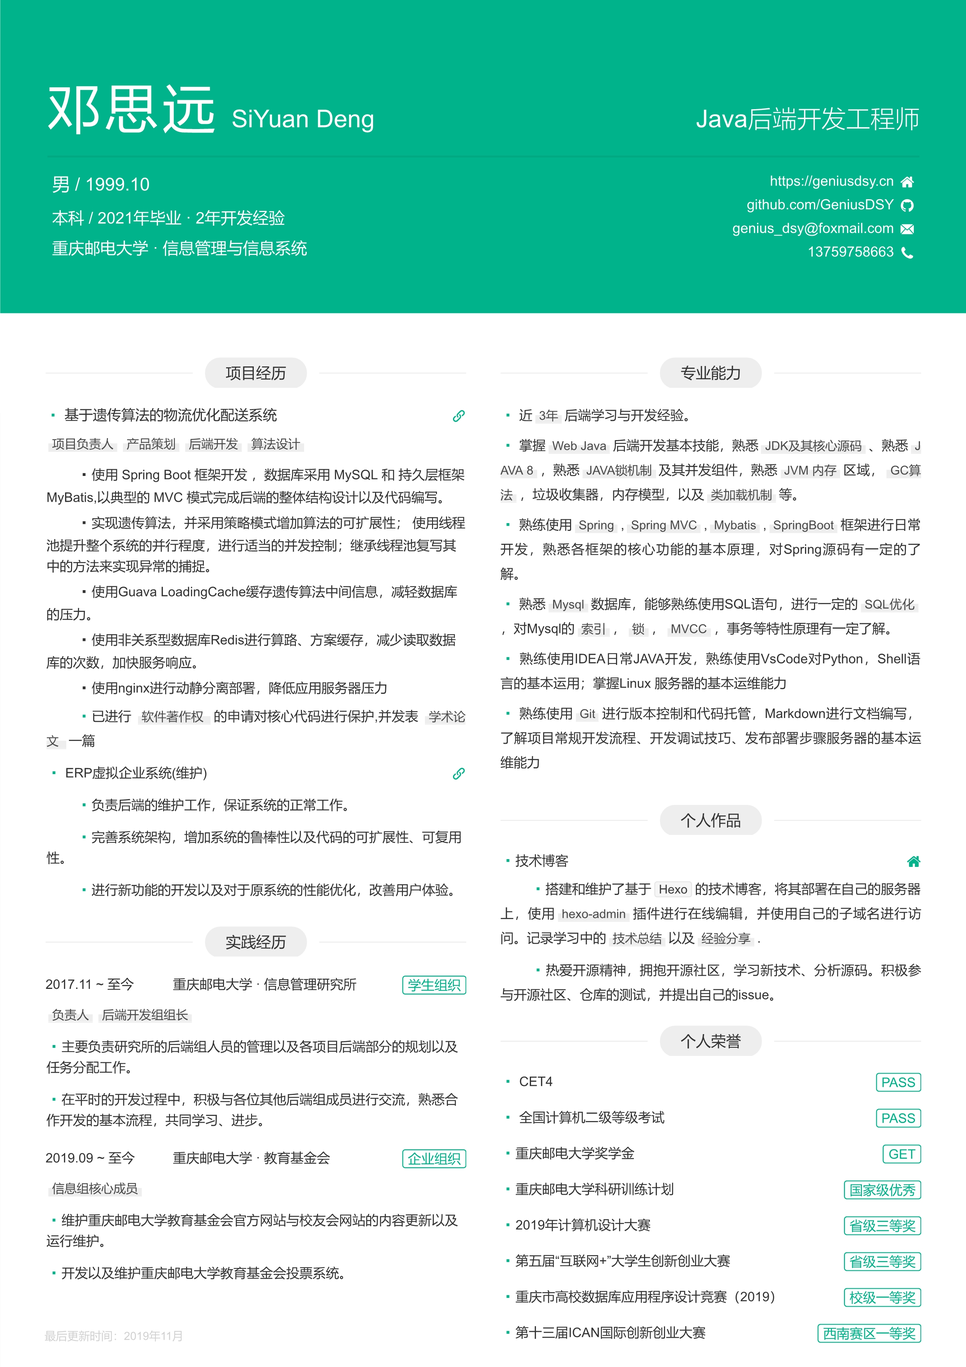
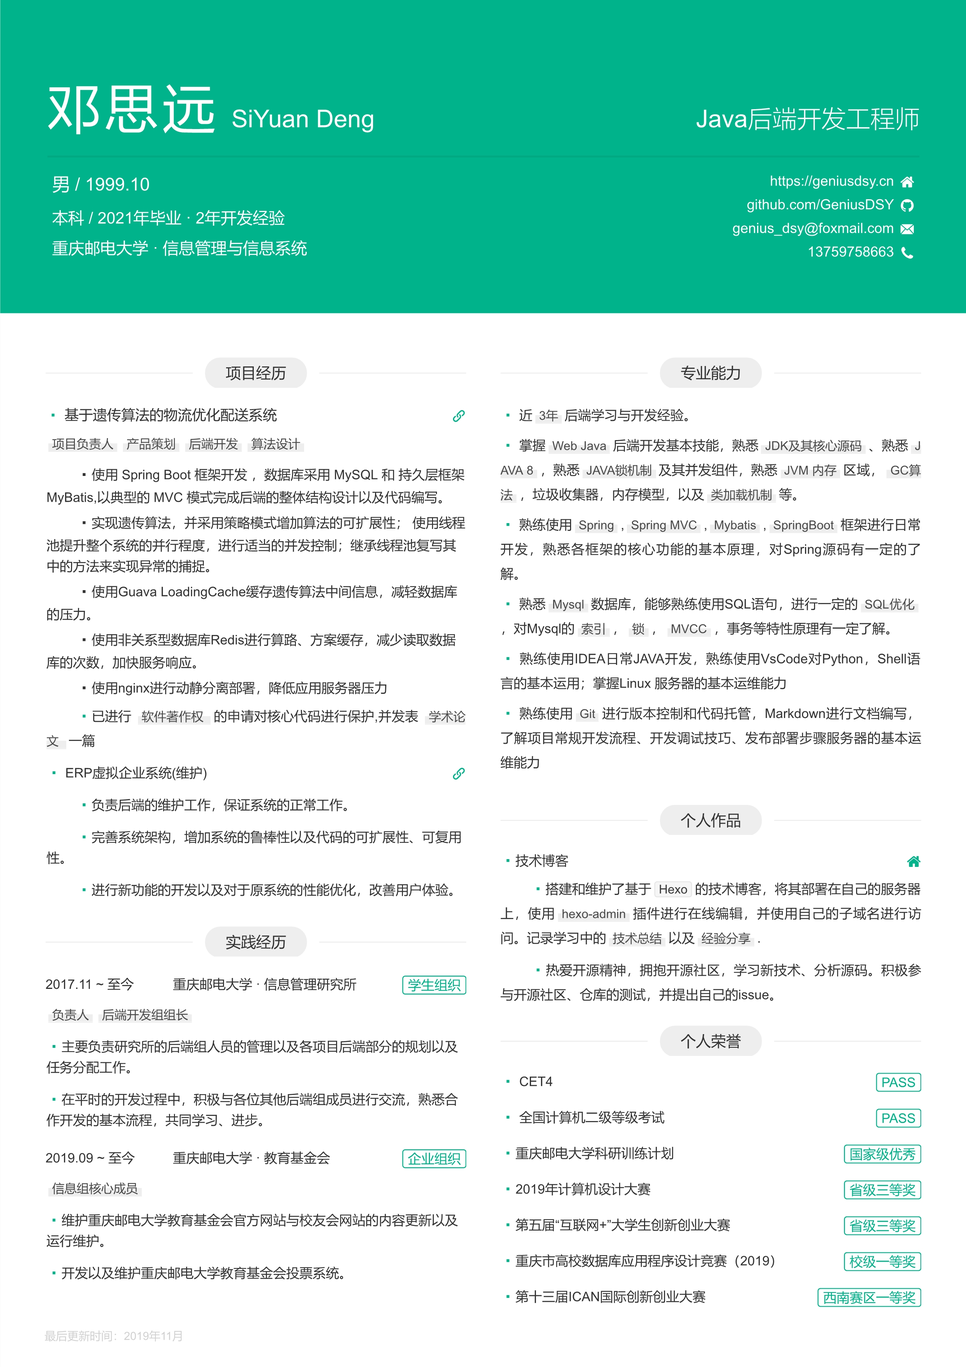
:lipstick: chore:更新页面布局

Changed region(s): [[0.5282, 0.8392, 0.7458, 0.9946], [0.839, 0.9324, 0.9633, 0.9946], [0.8701, 0.8392, 0.9633, 0.9013]]

diff --git a/index.html b/index.html
@@ -1,5 +1,5 @@
-<!DOCTYPE html><html><head><meta charset="utf-8"><meta http-equiv="X-UA-Compatible" content="IE=edge,chrome=1"><meta name="viewport" content="width=device-width,initial-scale=1"><title>简历 | 邓思远 - SiYuan Deng</title><script type="text/javascript" src="static/app.js?a1e1f0"></script></head><body><!--[if IE]><p class="kill-ie">微软都放弃了IE，为啥你却还不放弃？</p><![endif]--><p class="last-modified">最后更新时间：2019年11月</p><div class="content"><header class="content-hd"><section class="title"><div class="name"><h1>邓思远<small>SiYuan Deng</small></h1></div><div class="job"><h2>Java后端开发工程师<small></small></h2></div></section><section class="info"><h2>男 / 1999.10</h2><h3>本科 / 2021年毕业 · 2年开发经验</h3><h3>重庆邮电大学 · 信息管理与信息系统</h3></section><section class="contact"><ul><li><a href="https://geniusdsy.cn" target="_blank"><span class="contact-link">https://geniusdsy.cn</span><i class="iconfont icon-homepage"></i></a></li><li><a href="https://github.com/GeniusDSY" target="_blank"><span class="contact-link">github.com/GeniusDSY</span><i class="iconfont icon-github"></i></a></li><li><a href="mailto:genius_dsy@foxmail.com" target="_blank"><span class="contact-link">genius_dsy@foxmail.com</span><i class="iconfont icon-email"></i></a></li><li><a href="tel:13759758663" target="_blank"><span class="contact-link">13759758663</span><i class="iconfont icon-phone"></i></a></li></ul></section></header><div class="content-bd"><div class="content-left"><section id="experience"><header class="section-hd"><span class="section-title-l"></span><h2 class="section-title">项目经历</h2><span class="section-title-r"></span></header><div class="section-bd"><div class="item item-main"><!-- <header class="item-hd">
+<!DOCTYPE html><html><head><meta charset="utf-8"><meta http-equiv="X-UA-Compatible" content="IE=edge,chrome=1"><meta name="viewport" content="width=device-width,initial-scale=1"><title>简历 | 邓思远 - SiYuan Deng</title><script type="text/javascript" src="static/app.js?9066c5"></script></head><body><!--[if IE]><p class="kill-ie">微软都放弃了IE，为啥你却还不放弃？</p><![endif]--><p class="last-modified">最后更新时间：2019年11月</p><div class="content"><header class="content-hd"><section class="title"><div class="name"><h1>邓思远<small>SiYuan Deng</small></h1></div><div class="job"><h2>Java后端开发工程师<small></small></h2></div></section><section class="info"><h2>男 / 1999.10</h2><h3>本科 / 2021年毕业 · 2年开发经验</h3><h3>重庆邮电大学 · 信息管理与信息系统</h3></section><section class="contact"><ul><li><a href="https://geniusdsy.cn" target="_blank"><span class="contact-link">https://geniusdsy.cn</span><i class="iconfont icon-homepage"></i></a></li><li><a href="https://github.com/GeniusDSY" target="_blank"><span class="contact-link">github.com/GeniusDSY</span><i class="iconfont icon-github"></i></a></li><li><a href="mailto:genius_dsy@foxmail.com" target="_blank"><span class="contact-link">genius_dsy@foxmail.com</span><i class="iconfont icon-email"></i></a></li><li><a href="tel:13759758663" target="_blank"><span class="contact-link">13759758663</span><i class="iconfont icon-phone"></i></a></li></ul></section></header><div class="content-bd"><div class="content-left"><section id="experience"><header class="section-hd"><span class="section-title-l"></span><h2 class="section-title">项目经历</h2><span class="section-title-r"></span></header><div class="section-bd"><div class="item item-main"><!-- <header class="item-hd">
                                 <span class="item-time">2017.07 ~ 至今</span>
                                 <a class="btn item-more" href="http://tencent.com" target="_blank" title="工作经历">工作</a>
                                 <h3 class="item-name">腾讯科技(深圳)有限公司</h3>
-                            </header> --><div class="item"><header class="item-hd"><h3 class="item-name"><i class="iconfont icon-dot"></i> 基于遗传算法的物流优化配送系统</h3><a class="item-more" href="https://github.com/MayYJ/RoutePlanSystem" target="_blank"><i class="iconfont icon-link"></i></a></header></div></div><div class="item-bd"><p class="section-content"><strong>项目负责人</strong><strong>产品策划</strong><strong>后端开发</strong><strong>算法设计</strong></p></div><div class="item"><header class="item-bd"><h3 class="item-name">　　 <i class="iconfont icon-dot"></i>使用 <em>Spring Boot</em> 框架开发 ，数据库采用 <em>MySQL </em>和 持久层框架 <em>MyBatis</em>,以典型的<em> MVC </em>模式完成后端的整体结构设计以及代码编写。</h3></header></div><div class="item"><header class="item-bd"><h3 class="item-name">　　 <i class="iconfont icon-dot"></i>实现<em>遗传算法</em>，并采用<em>策略模式</em>增加算法的可扩展性； 使用<em>线程池</em>提升整个系统的并行程度，进行适当的并发控制；继承线程池复写其中的方法来实现异常的捕捉。</h3></header></div><div class="item"><header class="item-bd"><h3 class="item-name">　　 <i class="iconfont icon-dot"></i>使用<em>Guava LoadingCache</em>缓存遗传算法中间信息，减轻数据库的压力。</h3></header></div><div class="item"><header class="item-bd"><h3 class="item-name">　　 <i class="iconfont icon-dot"></i>使用非关系型数据库<em>Redis</em>进行算路、方案缓存，减少读取数据库的次数，加快服务响应。</h3></header></div><div class="item"><header class="item-bd"><h3 class="item-name">　　 <i class="iconfont icon-dot"></i>使用<em>nginx</em>进行动静分离部署，降低应用服务器压力</h3></header></div><div class="item"><header class="item-bd"><h3 class="item-name section-content">　　 <i class="iconfont icon-dot"></i>已进行 <strong>软件著作权 </strong>的申请对核心代码进行保护,并发表 <strong>学术论文 </strong>一篇</h3></header></div><div class="item"><header class="item-hd"><h3 class="item-name"><i class="iconfont icon-dot"></i> ERP虚拟企业系统(维护)</h3><a class="item-more" href="https://coding.net/u/bailixiang/p/erpm" target="_blank"><i class="iconfont icon-link"></i></a></header></div><div class="item"><header class="item-hd"><h3 class="item-name">　　 <i class="iconfont icon-dot"></i>负责后端的维护工作，保证系统的正常工作。</h3></header></div><div class="item"><header class="item-hd"><h3 class="item-name">　　 <i class="iconfont icon-dot"></i>完善系统架构，增加系统的鲁棒性以及代码的可扩展性、可复用性。</h3></header></div><div class="item"><header class="item-hd"><h3 class="item-name">　　 <i class="iconfont icon-dot"></i>进行新功能的开发以及对于原系统的性能优化，改善用户体验。</h3></header></div></div></section><section id="practice"><header class="section-hd"><span class="section-title-l"></span><h2 class="section-title">实践经历</h2><span class="section-title-r"></span></header><div class="section-bd"><div class="item item-main"><header class="item-hd"><span class="item-time">2017.11 ~ 至今</span><h3 class="item-name">重庆邮电大学 · 信息管理研究所</h3><a class="btn item-more" href="https://github.com/mis-lab" target="_blank" title="学生组织">学生组织</a></header><div class="item-bd"><p class="section-content"><strong>负责人</strong><strong>后端开发组组长</strong></p></div></div><div class="item"><header class="item-hd"><h3 class="item-name"><i class="iconfont icon-dot"></i>主要负责研究所的后端组人员的管理以及各项目后端部分的规划以及任务分配工作。</h3></header></div><div class="item"><header class="item-hd"><h3 class="item-name"><i class="iconfont icon-dot"></i>在平时的开发过程中，积极与各位其他后端组成员进行交流，熟悉合作开发的基本流程，共同学习、进步。</h3></header></div></div><div class="section-bd"><div class="item item-main"><header class="item-hd"><span class="item-time">2019.09 ~ 至今</span><h3 class="item-name">重庆邮电大学 · 教育基金会</h3><a class="btn item-more" target="_blank" title="基金会">企业组织</a></header><div class="item-bd"><p class="section-content"><strong>信息组核心成员</strong></p></div></div><div class="item"><header class="item-hd"><h3 class="item-name"><i class="iconfont icon-dot"></i>维护重庆邮电大学教育基金会官方网站与校友会网站的内容更新以及运行维护。</h3></header></div><div class="item"><header class="item-hd"><h3 class="item-name"><i class="iconfont icon-dot"></i>开发以及维护重庆邮电大学教育基金会投票系统。</h3></header></div></div></section></div><div class="content-right"><section id="skill"><header class="section-hd"><span class="section-title-l"></span><h2 class="section-title">专业能力</h2><span class="section-title-r"></span></header><div class="section-bd"><ul class="section-list"><li><p class="section-content"><i class="iconfont icon-dot"></i> 近<strong>3年</strong>后端学习与开发经验。</p></li><li><p class="section-content"><i class="iconfont icon-dot"></i> 掌握<strong>Web Java</strong>后端开发基本技能，熟悉<strong>JDK及其核心源码</strong>、熟悉<strong>JAVA 8</strong>，熟悉<strong>JAVA锁机制</strong>及其并发组件，熟悉<strong>JVM 内存</strong>区域，<strong>GC算法</strong>，垃圾收集器，内存模型，以及<strong>类加载机制</strong>等。</p></li><li><p class="section-content"><i class="iconfont icon-dot"></i> 熟练使用<strong>Spring</strong>,<strong>Spring MVC</strong>,<strong>Mybatis</strong>,<strong>SpringBoot</strong>框架进行日常开发，熟悉各框架的核心功能的基本原理，对Spring源码有一定的了解。</p></li><li><p class="section-content"><i class="iconfont icon-dot"></i> 熟悉<strong>Mysql</strong>数据库，能够熟练使用SQL语句，进行一定的<strong>SQL优化</strong>，对Mysql的<strong>索引</strong>，<strong>锁</strong>，<strong>MVCC</strong>，事务等特性原理有一定了解。</p></li><li><p class="section-content"><i class="iconfont icon-dot"></i> 熟练使用IDEA日常JAVA开发，熟练使用VsCode对Python，Shell语言的基本运用；掌握Linux 服务器的基本运维能力</p></li><li><p class="section-content"><i class="iconfont icon-dot"></i> 熟练使用<strong>Git</strong>进行版本控制和代码托管，Markdown进行文档编写，了解项目常规开发流程、开发调试技巧、发布部署步骤服务器的基本运维能力</p></li></ul></div></section><section id="personal"><header class="section-hd"><span class="section-title-l"></span><h2 class="section-title">个人作品</h2><span class="section-title-r"></span></header><div class="section-bd"><div class="item"><header class="item-hd"><h3 class="item-name"><i class="iconfont icon-dot"></i>技术博客</h3><a class="item-more" href="https://blog.geniusdsy.cn" target="_blank" title="技术博客"><i class="iconfont icon-homepage"></i></a></header><div class="item"><header class="item-bd"><h3 class="item-name section-content">　　 <i class="iconfont icon-dot"></i>搭建和维护了基于<em>Hexo</em>的技术博客，将其部署在自己的服务器上，使用<strong>hexo-admin</strong>插件进行在线编辑，并使用自己的子域名进行访问。记录学习中的<strong>技术总结</strong>以及<strong>经验分享</strong>.</h3></header></div><div class="item"><header class="item-bd"><h3 class="item-name section-content">　　 <i class="iconfont icon-dot"></i>热爱开源精神，拥抱开源社区，学习新技术、分析源码。积极参与开源社区、仓库的测试，并提出自己的issue。</h3></header></div></div></div></section><section id="practice"><header class="section-hd"><span class="section-title-l"></span><h2 class="section-title">个人荣誉</h2><span class="section-title-r"></span></header><div class="section-bd"><div class="item"><header class="item-hd"><h3 class="item-name"><i class="iconfont icon-dot"></i> CET4</h3><a class="btn item-more" target="_blank" title="获奖">PASS</a></header><header class="item-hd"><h3 class="item-name"><i class="iconfont icon-dot"></i> 全国计算机二级等级考试</h3><a class="btn item-more" target="_blank" title="获奖">PASS</a></header><header class="item-hd"><h3 class="item-name"><i class="iconfont icon-dot"></i>重庆邮电大学奖学金</h3><a class="btn item-more" target="_blank" title="获奖">GET</a></header><header class="item-hd"><h3 class="item-name"><i class="iconfont icon-dot"></i>重庆邮电大学科研训练计划</h3><a class="btn item-more" target="_blank" title="获奖">国家级优秀</a></header><header class="item-hd"><h3 class="item-name"><i class="iconfont icon-dot"></i>2019年计算机设计大赛</h3><a class="btn item-more" target="_blank" title="获奖">省级三等奖</a></header><header class="item-hd"><h3 class="item-name"><i class="iconfont icon-dot"></i>第五届“互联网+”大学生创新创业大赛</h3><a class="btn item-more" target="_blank" title="获奖">省级三等奖</a></header><header class="item-hd"><h3 class="item-name"><i class="iconfont icon-dot"></i>重庆市高校数据库应用程序设计竞赛（2019）</h3><a class="btn item-more" target="_blank" title="获奖">校级一等奖</a></header><header class="item-hd"><h3 class="item-name"><i class="iconfont icon-dot"></i>第十三届ICAN国际创新创业大赛</h3><a class="btn item-more" target="_blank" title="获奖">西南赛区一等奖</a></header></div></div></section></div></div></div><footer class="github-footer"><a class="footer-link" href="https://github.com/GeniusDSY/resume" target="_blank"><i class="iconfont icon-link"></i> github.com/GeniusDSY/resume</a></footer><footer class="print-footer"><a class="footer-link" href="http://resume.geniusdsy.cn" target="_blank"><i class="iconfont icon-link"></i> 网页版简历：resume.geniusdsy.cn</a></footer><a class="pdf" href="resume.pdf"><i class="iconfont icon-pdf"></i> PDF简历</a></body></html>
+                            </header> --><div class="item"><header class="item-hd"><h3 class="item-name"><i class="iconfont icon-dot"></i> 基于遗传算法的物流优化配送系统</h3><a class="item-more" href="https://github.com/MayYJ/RoutePlanSystem" target="_blank"><i class="iconfont icon-link"></i></a></header></div></div><div class="item-bd"><p class="section-content"><strong>项目负责人</strong><strong>产品策划</strong><strong>后端开发</strong><strong>算法设计</strong></p></div><div class="item"><header class="item-bd"><h3 class="item-name">　　 <i class="iconfont icon-dot"></i>使用 <em>Spring Boot</em> 框架开发 ，数据库采用 <em>MySQL </em>和 持久层框架 <em>MyBatis</em>,以典型的<em> MVC </em>模式完成后端的整体结构设计以及代码编写。</h3></header></div><div class="item"><header class="item-bd"><h3 class="item-name">　　 <i class="iconfont icon-dot"></i>实现<em>遗传算法</em>，并采用<em>策略模式</em>增加算法的可扩展性； 使用<em>线程池</em>提升整个系统的并行程度，进行适当的并发控制；继承线程池复写其中的方法来实现异常的捕捉。</h3></header></div><div class="item"><header class="item-bd"><h3 class="item-name">　　 <i class="iconfont icon-dot"></i>使用<em>Guava LoadingCache</em>缓存遗传算法中间信息，减轻数据库的压力。</h3></header></div><div class="item"><header class="item-bd"><h3 class="item-name">　　 <i class="iconfont icon-dot"></i>使用非关系型数据库<em>Redis</em>进行算路、方案缓存，减少读取数据库的次数，加快服务响应。</h3></header></div><div class="item"><header class="item-bd"><h3 class="item-name">　　 <i class="iconfont icon-dot"></i>使用<em>nginx</em>进行动静分离部署，降低应用服务器压力</h3></header></div><div class="item"><header class="item-bd"><h3 class="item-name section-content">　　 <i class="iconfont icon-dot"></i>已进行 <strong>软件著作权 </strong>的申请对核心代码进行保护,并发表 <strong>学术论文 </strong>一篇</h3></header></div><div class="item"><header class="item-hd"><h3 class="item-name"><i class="iconfont icon-dot"></i> ERP虚拟企业系统(维护)</h3><a class="item-more" href="https://coding.net/u/bailixiang/p/erpm" target="_blank"><i class="iconfont icon-link"></i></a></header></div><div class="item"><header class="item-hd"><h3 class="item-name">　　 <i class="iconfont icon-dot"></i>负责后端的维护工作，保证系统的正常工作。</h3></header></div><div class="item"><header class="item-hd"><h3 class="item-name">　　 <i class="iconfont icon-dot"></i>完善系统架构，增加系统的鲁棒性以及代码的可扩展性、可复用性。</h3></header></div><div class="item"><header class="item-hd"><h3 class="item-name">　　 <i class="iconfont icon-dot"></i>进行新功能的开发以及对于原系统的性能优化，改善用户体验。</h3></header></div></div></section><section id="practice"><header class="section-hd"><span class="section-title-l"></span><h2 class="section-title">实践经历</h2><span class="section-title-r"></span></header><div class="section-bd"><div class="item item-main"><header class="item-hd"><span class="item-time">2017.11 ~ 至今</span><h3 class="item-name">重庆邮电大学 · 信息管理研究所</h3><a class="btn item-more" href="https://github.com/mis-lab" target="_blank" title="学生组织">学生组织</a></header><div class="item-bd"><p class="section-content"><strong>负责人</strong><strong>后端开发组组长</strong></p></div></div><div class="item"><header class="item-hd"><h3 class="item-name"><i class="iconfont icon-dot"></i>主要负责研究所的后端组人员的管理以及各项目后端部分的规划以及任务分配工作。</h3></header></div><div class="item"><header class="item-hd"><h3 class="item-name"><i class="iconfont icon-dot"></i>在平时的开发过程中，积极与各位其他后端组成员进行交流，熟悉合作开发的基本流程，共同学习、进步。</h3></header></div></div><div class="section-bd"><div class="item item-main"><header class="item-hd"><span class="item-time">2019.09 ~ 至今</span><h3 class="item-name">重庆邮电大学 · 教育基金会</h3><a class="btn item-more" target="_blank" title="基金会">企业组织</a></header><div class="item-bd"><p class="section-content"><strong>信息组核心成员</strong></p></div></div><div class="item"><header class="item-hd"><h3 class="item-name"><i class="iconfont icon-dot"></i>维护重庆邮电大学教育基金会官方网站与校友会网站的内容更新以及运行维护。</h3></header></div><div class="item"><header class="item-hd"><h3 class="item-name"><i class="iconfont icon-dot"></i>开发以及维护重庆邮电大学教育基金会投票系统。</h3></header></div></div></section></div><div class="content-right"><section id="skill"><header class="section-hd"><span class="section-title-l"></span><h2 class="section-title">专业能力</h2><span class="section-title-r"></span></header><div class="section-bd"><ul class="section-list"><li><p class="section-content"><i class="iconfont icon-dot"></i> 近<strong>3年</strong>后端学习与开发经验。</p></li><li><p class="section-content"><i class="iconfont icon-dot"></i> 掌握<strong>Web Java</strong>后端开发基本技能，熟悉<strong>JDK及其核心源码</strong>、熟悉<strong>JAVA 8</strong>，熟悉<strong>JAVA锁机制</strong>及其并发组件，熟悉<strong>JVM 内存</strong>区域，<strong>GC算法</strong>，垃圾收集器，内存模型，以及<strong>类加载机制</strong>等。</p></li><li><p class="section-content"><i class="iconfont icon-dot"></i> 熟练使用<strong>Spring</strong>,<strong>Spring MVC</strong>,<strong>Mybatis</strong>,<strong>SpringBoot</strong>框架进行日常开发，熟悉各框架的核心功能的基本原理，对Spring源码有一定的了解。</p></li><li><p class="section-content"><i class="iconfont icon-dot"></i> 熟悉<strong>Mysql</strong>数据库，能够熟练使用SQL语句，进行一定的<strong>SQL优化</strong>，对Mysql的<strong>索引</strong>，<strong>锁</strong>，<strong>MVCC</strong>，事务等特性原理有一定了解。</p></li><li><p class="section-content"><i class="iconfont icon-dot"></i> 熟练使用IDEA日常JAVA开发，熟练使用VsCode对Python，Shell语言的基本运用；掌握Linux 服务器的基本运维能力</p></li><li><p class="section-content"><i class="iconfont icon-dot"></i> 熟练使用<strong>Git</strong>进行版本控制和代码托管，Markdown进行文档编写，了解项目常规开发流程、开发调试技巧、发布部署步骤服务器的基本运维能力</p></li></ul></div></section><section id="personal"><header class="section-hd"><span class="section-title-l"></span><h2 class="section-title">个人作品</h2><span class="section-title-r"></span></header><div class="section-bd"><div class="item"><header class="item-hd"><h3 class="item-name"><i class="iconfont icon-dot"></i>技术博客</h3><a class="item-more" href="https://blog.geniusdsy.cn" target="_blank" title="技术博客"><i class="iconfont icon-homepage"></i></a></header><div class="item"><header class="item-bd"><h3 class="item-name section-content">　　 <i class="iconfont icon-dot"></i>搭建和维护了基于<em>Hexo</em>的技术博客，将其部署在自己的服务器上，使用<strong>hexo-admin</strong>插件进行在线编辑，并使用自己的子域名进行访问。记录学习中的<strong>技术总结</strong>以及<strong>经验分享</strong>.</h3></header></div><div class="item"><header class="item-bd"><h3 class="item-name section-content">　　 <i class="iconfont icon-dot"></i>热爱开源精神，拥抱开源社区，学习新技术、分析源码。积极参与开源社区、仓库的测试，并提出自己的issue。</h3></header></div></div></div></section><section id="practice"><header class="section-hd"><span class="section-title-l"></span><h2 class="section-title">个人荣誉</h2><span class="section-title-r"></span></header><div class="section-bd"><div class="item"><header class="item-hd"><h3 class="item-name"><i class="iconfont icon-dot"></i> CET4</h3><a class="btn item-more" target="_blank" title="获奖">PASS</a></header><header class="item-hd"><h3 class="item-name"><i class="iconfont icon-dot"></i> 全国计算机二级等级考试</h3><a class="btn item-more" target="_blank" title="获奖">PASS</a></header><header class="item-hd"><h3 class="item-name"><i class="iconfont icon-dot"></i>重庆邮电大学科研训练计划</h3><a class="btn item-more" target="_blank" title="获奖">国家级优秀</a></header><header class="item-hd"><h3 class="item-name"><i class="iconfont icon-dot"></i>2019年计算机设计大赛</h3><a class="btn item-more" target="_blank" title="获奖">省级三等奖</a></header><header class="item-hd"><h3 class="item-name"><i class="iconfont icon-dot"></i>第五届“互联网+”大学生创新创业大赛</h3><a class="btn item-more" target="_blank" title="获奖">省级三等奖</a></header><header class="item-hd"><h3 class="item-name"><i class="iconfont icon-dot"></i>重庆市高校数据库应用程序设计竞赛（2019）</h3><a class="btn item-more" target="_blank" title="获奖">校级一等奖</a></header><header class="item-hd"><h3 class="item-name"><i class="iconfont icon-dot"></i>第十三届ICAN国际创新创业大赛</h3><a class="btn item-more" target="_blank" title="获奖">西南赛区一等奖</a></header></div></div></section></div></div></div><footer class="github-footer"><a class="footer-link" href="https://github.com/GeniusDSY/resume" target="_blank"><i class="iconfont icon-link"></i> github.com/GeniusDSY/resume</a></footer><footer class="print-footer"><a class="footer-link" href="http://resume.geniusdsy.cn" target="_blank"><i class="iconfont icon-link"></i> 网页版简历：resume.geniusdsy.cn</a></footer><a class="pdf" href="resume.pdf"><i class="iconfont icon-pdf"></i> PDF简历</a></body></html>

diff --git a/src/index.html b/src/index.html
@@ -304,10 +304,6 @@
                                     <a class="btn item-more" target="_blank" title="获奖">PASS</a>
                             </header>
                             <header class="item-hd">
-                                <h3 class="item-name"><i class="iconfont icon-dot"></i>重庆邮电大学奖学金</h3>
-                                    <a class="btn item-more" target="_blank" title="获奖">GET</a>
-                            </header>
-                            <header class="item-hd">
                                 <h3 class="item-name"><i class="iconfont icon-dot"></i>重庆邮电大学科研训练计划</h3>
                                     <a class="btn item-more" target="_blank" title="获奖">国家级优秀</a>
                             </header>
